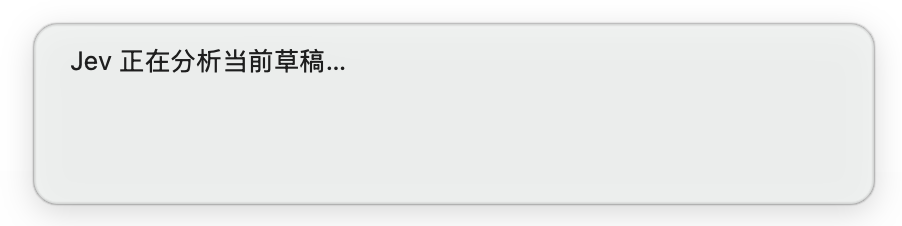
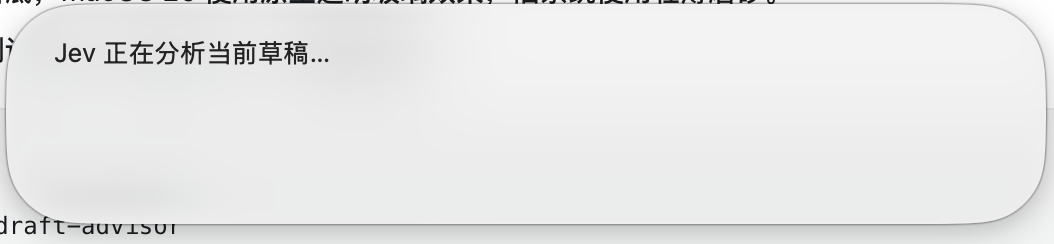
Add quota-aware preferences, progressive results and glass overlay

Changed region(s): [[0.0, 0.0929, 0.9623, 0.9602], [0.0, 0.0, 1.0, 0.8982]]

diff --git a/macos/JevDraftAdvisor.swift b/macos/JevDraftAdvisor.swift
@@ -24,6 +24,47 @@ final class DraftAdvisor: NSObject, NSApplicationDelegate, NSMenuDelegate {
     private var hotkey: EventHotKeyRef?
     private var busy = false
     private var isPositionPinned = false
+    private let preferences = UserDefaults(suiteName: "jev-draft-advisor")!
+    private let priorities = [("balanced", "均衡"), ("cost", "性价比"), ("quality", "质量优先"), ("speed", "速度优先")]
+    private var priority: String { preferences.string(forKey: "priority") ?? "balanced" }
+    private var considerQuota: Bool { preferences.object(forKey: "considerQuota") as? Bool ?? true }
+    private var preferenceItems: [NSMenuItem] = []
+    private var quotaItems: [NSMenuItem] = []
+
+    private func addPreferences(to menu: NSMenu) {
+        let parent = NSMenuItem(title: "推荐偏好", action: nil, keyEquivalent: "")
+        let choices = NSMenu()
+        for (key, title) in priorities {
+            let item = NSMenuItem(title: title, action: #selector(selectPriority(_:)), keyEquivalent: "")
+            item.representedObject = key
+            item.target = self
+            choices.addItem(item)
+            preferenceItems.append(item)
+        }
+        parent.submenu = choices
+        menu.addItem(parent)
+        let quota = NSMenuItem(title: "参考本地 Codex 登录账户额度", action: #selector(toggleQuota), keyEquivalent: "")
+        quota.target = self
+        quotaItems.append(quota)
+        menu.addItem(quota)
+        refreshPreferences()
+    }
+
+    private func refreshPreferences() {
+        for item in preferenceItems { item.state = (item.representedObject as? String) == priority ? .on : .off }
+        for item in quotaItems { item.state = considerQuota ? .on : .off }
+    }
+
+    @objc private func selectPriority(_ sender: NSMenuItem) {
+        guard let key = sender.representedObject as? String else { return }
+        preferences.set(key, forKey: "priority")
+        refreshPreferences()
+    }
+
+    @objc private func toggleQuota() {
+        preferences.set(!considerQuota, forKey: "considerQuota")
+        refreshPreferences()
+    }
 
     func applicationDidFinishLaunching(_ notification: Notification) {
         NSApp.setActivationPolicy(.accessory)
@@ -34,6 +75,7 @@ final class DraftAdvisor: NSObject, NSApplicationDelegate, NSMenuDelegate {
         menu.addItem(NSMenuItem(title: "隐藏弹窗", action: #selector(hidePanel), keyEquivalent: ""))
         menu.addItem(NSMenuItem(title: "退出", action: #selector(quit), keyEquivalent: ""))
         menu.items.forEach { $0.target = self }
+        addPreferences(to: menu)
         statusItem.menu = menu
 
         let id = EventHotKeyID(signature: hotkeySignature, id: 1)
@@ -73,6 +115,8 @@ final class DraftAdvisor: NSObject, NSApplicationDelegate, NSMenuDelegate {
     private func makePanelMenu() -> NSMenu {
         let menu = NSMenu()
         menu.delegate = self
+        addPreferences(to: menu)
+        menu.addItem(.separator())
         let pin = NSMenuItem(title: "固定当前位置", action: #selector(togglePositionPinned), keyEquivalent: "")
         pin.target = self
         pinMenuItem = pin
@@ -125,9 +169,11 @@ final class DraftAdvisor: NSObject, NSApplicationDelegate, NSMenuDelegate {
         }
         if draft.count > 8_000 { show("草稿超过 8000 字，请缩短后再分析"); return }
         busy = true
+        let selectedPriority = priority
+        let includeQuota = considerQuota
         show("Jev 正在分析当前草稿…")
         DispatchQueue.global(qos: .userInitiated).async {
-            let message = self.runJev(draft)
+            let message = self.runJev(draft, priority: selectedPriority, considerQuota: includeQuota)
             DispatchQueue.main.async {
                 self.busy = false
                 self.show(message)
@@ -135,7 +181,7 @@ final class DraftAdvisor: NSObject, NSApplicationDelegate, NSMenuDelegate {
         }
     }
 
-    private func runJev(_ draft: String) -> String {
+    private func runJev(_ draft: String, priority: String, considerQuota: Bool) -> String {
         let process = Process()
         process.executableURL = URL(fileURLWithPath: ProcessInfo.processInfo.environment["JEV_NODE_BIN"] ?? "/opt/homebrew/bin/node")
         process.arguments = ["--env-file=.env", "scripts/advise-draft.mjs"]
@@ -146,30 +192,51 @@ final class DraftAdvisor: NSObject, NSApplicationDelegate, NSMenuDelegate {
         process.standardError = error
         do {
             try process.run()
-            let data = try JSONSerialization.data(withJSONObject: ["prompt": draft])
+            let data = try JSONSerialization.data(withJSONObject: ["prompt": draft, "priority": priority, "considerQuota": considerQuota])
             input.fileHandleForWriting.write(data)
             try? input.fileHandleForWriting.close()
+            var pending = Data()
+            var lastMessage: String?
+            while true {
+                let chunk = output.fileHandleForReading.availableData
+                if chunk.isEmpty { break }
+                pending.append(chunk)
+                while let newline = pending.firstIndex(of: 10) {
+                    let line = Data(pending[..<newline])
+                    pending.removeSubrange(...newline)
+                    if let message = self.renderResponse(line, priority: priority) {
+                        lastMessage = message
+                        DispatchQueue.main.async { self.show(message) }
+                    }
+                }
+            }
             process.waitUntilExit()
             guard process.terminationStatus == 0 else {
                 let detail = String(data: error.fileHandleForReading.readDataToEndOfFile(), encoding: .utf8) ?? "未知错误"
                 return "分析失败：\(detail.prefix(100))"
             }
-            let response = output.fileHandleForReading.readDataToEndOfFile()
-            guard let json = try JSONSerialization.jsonObject(with: response) as? [String: Any],
-                  let model = json["model"] as? String, let effort = json["effort"] as? String else {
-                return "Jev 返回的数据不完整"
-            }
-            let depth = json["reasoningDepth"] as? String ?? "normal"
-            let review = (json["needsHumanReview"] as? Bool == true) ? " · 请人工复核" : ""
-            return "推荐 \(model) · \(effort)（\(depth)）\(review)\n请在 Codex 中手动切换；草稿未发送。"
+            return lastMessage ?? "Jev 返回的数据不完整"
         } catch {
             return "分析失败：\(error.localizedDescription)"
         }
     }
 
+    private func renderResponse(_ response: Data, priority: String) -> String? {
+            guard let json = (try? JSONSerialization.jsonObject(with: response)) as? [String: Any],
+                  let model = json["model"] as? String, let effort = json["effort"] as? String else {
+                return nil
+            }
+            let depth = json["reasoningDepth"] as? String ?? "normal"
+            let review = (json["needsHumanReview"] as? Bool == true) ? " · 请人工复核" : ""
+            let title = priorities.first(where: { $0.0 == priority })?.1 ?? priority
+            let quota = json["quotaText"] as? String ?? "额度未知"
+            let adjustment = (json["budgetAdjusted"] as? Bool == true) ? " · 已节省推理消耗" : ""
+            return "\(title)：\(model) · \(effort)（\(depth)）\(review)\n\(quota)\(adjustment)\n请手动切换；草稿未提交到 Codex。"
+    }
+
     private func show(_ message: String) {
         if panel == nil {
-            let window = NSPanel(contentRect: NSRect(x: 0, y: 0, width: 420, height: 90),
+            let window = NSPanel(contentRect: NSRect(x: 0, y: 0, width: 520, height: 110),
                                  styleMask: [.borderless, .nonactivatingPanel], backing: .buffered, defer: false)
             window.level = .floating
             window.isOpaque = false
@@ -181,32 +248,57 @@ final class DraftAdvisor: NSObject, NSApplicationDelegate, NSMenuDelegate {
 
             let root = NSView(frame: window.contentView!.bounds)
             root.wantsLayer = true
-            root.layer?.cornerRadius = 12
+            root.layer?.cornerRadius = 36
+            root.layer?.borderWidth = 1
+            root.layer?.borderColor = NSColor.white.withAlphaComponent(0.7).cgColor
             root.layer?.masksToBounds = true
             let panelMenu = makePanelMenu()
             root.menu = panelMenu
 
+            if #available(macOS 26.0, *) {
+                // Native glass supplies its own blur, tint, and edge highlights.
+                root.layer?.borderWidth = 0
+            } else {
             let box = NSVisualEffectView(frame: root.bounds)
             box.material = .popover
             box.state = .active
-            box.alphaValue = 0.62
+            box.blendingMode = .behindWindow
+            box.alphaValue = 1
             box.autoresizingMask = [.width, .height]
             box.menu = panelMenu
             root.addSubview(box)
 
+            // Keep blur fully composited; reducing its alpha exposes sharp text behind it.
+            let tint = NSView(frame: root.bounds)
+            tint.wantsLayer = true
+            tint.layer?.backgroundColor = NSColor.windowBackgroundColor.withAlphaComponent(0.12).cgColor
+            tint.autoresizingMask = [.width, .height]
+            tint.menu = panelMenu
+            root.addSubview(tint)
+            }
+
             let text = MovableLabel(frame: .zero)
-            text.frame = NSRect(x: 16, y: 10, width: 388, height: 70)
+            text.frame = NSRect(x: 22, y: 16, width: 476, height: 78)
             text.isBezeled = false
             text.drawsBackground = false
             text.isEditable = false
             text.isSelectable = false
-            text.maximumNumberOfLines = 3
+            text.maximumNumberOfLines = 5
             text.lineBreakMode = .byWordWrapping
             text.font = .systemFont(ofSize: 13)
-            text.textColor = .labelColor.withAlphaComponent(0.88)
+            text.textColor = .labelColor
             text.menu = panelMenu
             root.addSubview(text)
-            window.contentView = root
+            if #available(macOS 26.0, *) {
+                let glass = NSGlassEffectView(frame: root.bounds)
+                glass.style = .clear
+                glass.cornerRadius = 36
+                glass.contentView = root
+                glass.menu = panelMenu
+                window.contentView = glass
+            } else {
+                window.contentView = root
+            }
             panel = window
             label = text
         }
@@ -215,8 +307,8 @@ final class DraftAdvisor: NSObject, NSApplicationDelegate, NSMenuDelegate {
             let mouse = NSEvent.mouseLocation
             let screen = NSScreen.screens.first(where: { $0.frame.contains(mouse) }) ?? NSScreen.main
             let bounds = screen?.visibleFrame ?? NSRect(x: 0, y: 0, width: 1000, height: 700)
-            let x = min(max(mouse.x - 210, bounds.minX + 8), bounds.maxX - 428)
-            let y = min(max(mouse.y + 22, bounds.minY + 8), bounds.maxY - 98)
+            let x = min(max(mouse.x - 260, bounds.minX + 8), bounds.maxX - 528)
+            let y = min(max(mouse.y + 22, bounds.minY + 8), bounds.maxY - 118)
             panel?.setFrameOrigin(NSPoint(x: x, y: y))
         }
         panel?.orderFrontRegardless()

diff --git a/README.md b/README.md
@@ -13,17 +13,31 @@
 
 ## 使用截图
 
+### 推荐偏好与账户额度
+
+菜单栏 Jev 和浮窗右键菜单中的「推荐偏好」提供均衡、性价比、质量优先、速度优先，选择会在本机保存，下一次分析生效。均衡使用任务基础配置；性价比降低非深度任务推理强度；质量优先增加模型能力余量；速度优先减少推理强度（不保证实测更快）。高风险任务保留必要配置。
+
+默认开启「参考本地 Codex 登录账户额度」，可在菜单中关闭。通过本地 `codex app-server` 的只读 `account/rateLimits/read` 获取额度窗口、重置时间和可用重置机会。需要已登录的 Codex CLI 在 PATH 中，也可用 `JEV_CODEX_BIN` 指定可执行文件。CLI 登录账户可能与桌面账户不同，请自行确认；本工具不读取或导出登录令牌。
+
+剩余额度不超过 20% 时，普通非深度任务会减少可选推理消耗；不会降低任务的模型能力下限或覆盖质量优先。剩余不超过 10% 时，结合自然重置时间和可用重置机会给出等待/手动确认建议。不会购买额度或自动兑换重置机会，重置机会不视为已经到账的额度。窗口缺失、过期或查询失败时显示未知，不推断额度为零。
+
+额度查询与 Jev 分类并行，额度查询最多等待 20 秒，超时会显示发生在初始化还是账户请求阶段。Jev 返回后先显示基于任务和偏好的建议，额度返回后补充状态并可能调整推理强度，不再等待额度才显示第一条推荐。`scripts/advise-draft.mjs` 输出逐行 JSON（NDJSON），可能输出两条结果；每条包含请求耗时 `timings`，不包含草稿或密钥。Jev 网络请求仍可能波动。
+
+浮窗在 macOS 26 及以上使用原生透明玻璃效果，旧系统回退为磨砂效果；编译此版本需要包含 macOS 26 SDK 的 Xcode/Command Line Tools。
+
+账户额度只在本地处理，不传给 TypeSafe，不保存到仓库。日期按本机时区显示。仅参考 codex 额度桶，不推断不同模型一定共用额度，也不预测本次任务消耗。
+
 点击 Codex 草稿输入框后按 `Control+J`，浮窗显示分析状态：
 
 ![Jev 正在分析当前草稿](assets/draft-advisor/analyzing.png)
 
-分析完成后，显示推荐模型和推理强度，用户在 Codex 中手动切换。截图中的模型仅为一次推荐示例；“草稿未发送”指未提交为 Codex 消息，分析文本仍会发送到 TypeSafe/Jev，详见下方隐私说明。
+分析完成后，显示推荐模型和推理强度；额度返回后补充剩余比例、自然重置时间及可用重置机会，用户在 Codex 中手动切换。截图中的模型、额度与日期仅为拍摄时的示例，不代表其他账户的状态。“草稿未提交到 Codex”不代表文本没有离开电脑：分析文本仍会发送到 TypeSafe/Jev，详见下方隐私说明。
 
 ![Jev 显示推荐模型及推理强度](assets/draft-advisor/recommendation.png)
 
-右键浮窗可以固定当前位置、隐藏弹窗或退出 Jev；固定后菜单可用于取消固定。
+右键浮窗可切换均衡、性价比、质量优先、速度优先，也可开关额度参考、固定当前位置、隐藏弹窗或退出 Jev；固定后菜单可用于取消固定。
 
-![浮窗右键菜单：固定当前位置、隐藏弹窗、退出 Jev](assets/draft-advisor/context-menu.png)
+![浮窗右键菜单：推荐偏好、额度参考、固定位置、隐藏和退出](assets/draft-advisor/context-menu.png)
 
 ## 安装与 API Key 配置
 
@@ -90,7 +104,7 @@
 - 读取适配仅针对 `com.openai.codex` 及其辅助进程，不是全应用文本助手。
 - 快捷键、透明度及模型映射目前在源码中配置；窗口位置和固定状态不会跨进程保存。
 - 推荐基于 Jev 分类加人工规则，不是经完整基准验证的质量或费用保证。模型名称、可用性和推理档位需以实际账户为准。
-- 浮窗使用默认 balanced 偏好；代码中的 cost/speed/balanced 尚无完整的差异化选型策略。价格字段是静态参考值，不是实时价格或单次任务报价。
+- 价格字段是静态参考值，不是实时价格或单次任务报价；推荐偏好与额度规则是启发式策略，尚无个人任务集的速度/费用基准。
 - 依赖 Node 和本地 Swift 编译，目前不提供已签名、公证的安装包。
 - 单元测试通过不代表真实 Codex 焦点读取已在所有版本验证。
 - 分析中隐藏浮窗，结果返回时仍可能重新显示；彻底停止请选择退出。
